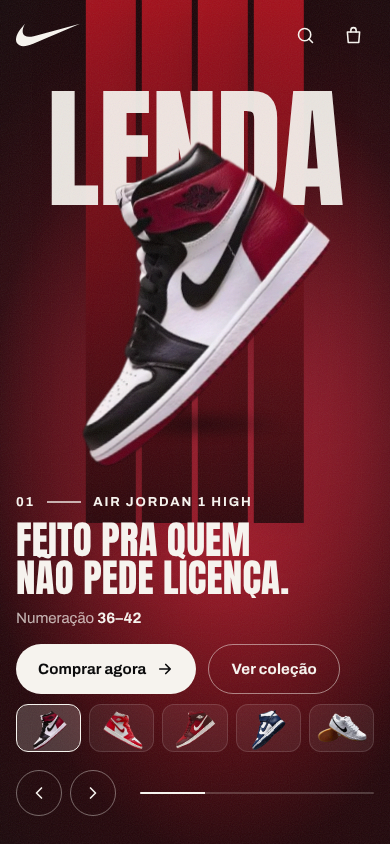
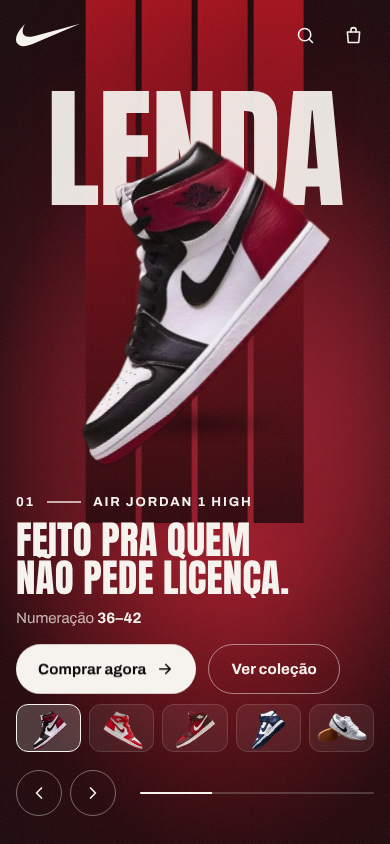
Corrige hero infinito e outros bugs do hero
- Altura do hero com teto (max-height): em painel que ajusta a altura ao
  conteúdo, o 100vh crescia sem parar
- Rolagem: valores iniciais explícitos; centralização do .palco preservada
- Palavra animada pelo wrapper na rolagem (não briga com a troca de tênis)
- Botão elástico usa a propriedade scale (não sobrescreve o transform do GSAP)
- Trocas ignoradas antes da intro terminar
- Autoplay continua pausado com o mouse em cima do seletor/CTA
- Setas do teclado só com o hero na tela e fora de campos de texto
- Intro só aparece com JS ativo (sem tela preta se o script falhar)
- Seletor com aria-pressed; tênis inativos com aria-hidden
- Faixa do slogan sem buraco em telas largas

Claude-Session: https://claude.ai/code/session_01GdwccTvq4W6oFZJSkJ4R6v

diff --git a/Nike/hero/main.js b/Nike/hero/main.js
@@ -56,9 +56,9 @@
     shoes.appendChild(img);
 
     var b = document.createElement('button');
-    b.className = 'thumb'; b.setAttribute('role','tab');
+    b.className = 'thumb'; b.type = 'button';
     b.setAttribute('aria-label', t.modelo + ' — ' + t.palavra);
-    b.setAttribute('aria-selected', i === 0 ? 'true' : 'false');
+    b.setAttribute('aria-pressed', i === 0 ? 'true' : 'false');
     b.innerHTML = '<span class="n">' + pad(i+1) + '</span><img src="' + t.img + '" alt="" draggable="false">';
     b.addEventListener('click', function(){ ir(i); });
     seletor.appendChild(b);
@@ -95,7 +95,7 @@
   }
 
   /* ── Troca de tênis ──────────────────────────────── */
-  var atual = 0, tl, auto;
+  var atual = 0, tl, auto, pronto = false, emCima = 0;
   var POSE = { x:0, y:0, rotation:-14, scale:1, opacity:1, filter:'blur(0px)' };
 
   function textos(t, i){
@@ -105,10 +105,12 @@
     linhas[0].textContent = t.l1;
     linhas[1].textContent = t.l2;
     aviso.textContent = (i+1) + ' de ' + TENIS.length + ': ' + t.modelo;
-    thumbs.forEach(function(b, j){ b.setAttribute('aria-selected', j === i ? 'true' : 'false'); });
+    thumbs.forEach(function(b, j){ b.setAttribute('aria-pressed', j === i ? 'true' : 'false'); });
+    imgs.forEach(function(img, j){ img.setAttribute('aria-hidden', j === i ? 'false' : 'true'); });
   }
 
   function ir(n, dir){
+    if(!pronto) return;
     n = (n + TENIS.length) % TENIS.length;
     if(n === atual) return;
     dir = dir || (n > atual ? 1 : -1);
@@ -151,20 +153,22 @@
     if(reduzido) return;
     auto = gsap.fromTo(barra, { scaleX:0 }, { scaleX:1, duration:TEMPO, ease:'none',
       onComplete:function(){ ir(atual + 1, 1); } });
+    if(emCima || document.hidden) auto.pause();
   }
   hero.querySelector('.next').addEventListener('click', function(){ ir(atual + 1, 1); });
   hero.querySelector('.prev').addEventListener('click', function(){ ir(atual - 1, -1); });
   document.addEventListener('keydown', function(e){
+    if(/input|textarea|select/i.test(e.target.tagName) || hero.getBoundingClientRect().bottom < 0) return;
     if(e.key === 'ArrowRight') ir(atual + 1, 1);
     if(e.key === 'ArrowLeft') ir(atual - 1, -1);
   });
   document.addEventListener('visibilitychange', function(){
     if(!auto) return;
-    document.hidden ? auto.pause() : auto.resume();
+    (document.hidden || emCima) ? auto.pause() : auto.resume();
   });
   [seletor, hero.querySelector('.ctas')].forEach(function(el){
-    el.addEventListener('mouseenter', function(){ auto && auto.pause(); });
-    el.addEventListener('mouseleave', function(){ auto && auto.resume(); });
+    el.addEventListener('mouseenter', function(){ emCima++; auto && auto.pause(); });
+    el.addEventListener('mouseleave', function(){ emCima = Math.max(0, emCima - 1); if(auto && !document.hidden) auto.resume(); });
   });
 
   /* swipe no celular */
@@ -224,7 +228,7 @@
       var forca = (alvoE - escala) * .22;
       vel = (vel + forca) * .72;
       escala += vel;
-      btn.style.transform = 'scale(' + escala + ')';
+      btn.style.scale = escala;
     });
   }
 
@@ -236,6 +240,7 @@
   if(reduzido){
     document.querySelector('.intro').remove();
     gsap.set(imgs[0], POSE);
+    pronto = true;
     word.textContent = t0.palavra;
     return;
   }
@@ -275,6 +280,7 @@
     .call(function(){
       document.body.classList.remove('intro-on');
       document.querySelector('.intro').remove();
+      pronto = true;
       reiniciarAuto();
     });
 
@@ -282,8 +288,9 @@
   var saida = gsap.timeline({
     scrollTrigger:{ trigger:hero, start:'top top', end:'bottom top', scrub:.6 }
   });
-  saida.to('.palco', { yPercent:18, scale:1.18, ease:'none' }, 0)
-       .to('.word', { yPercent:-35, opacity:.15, ease:'none' }, 0)
-       .to('.faixas', { yPercent:-20, ease:'none' }, 0)
-       .to(['.info', '.seletor', '.rodape-hero'], { opacity:0, y:-40, ease:'none' }, 0);
+  // .palco é centralizado com translate -50% -50%, que o GSAP converte em xPercent/yPercent
+  saida.fromTo('.palco', { xPercent:-50, yPercent:-50, scale:1 }, { xPercent:-50, yPercent:-32, scale:1.18, ease:'none' }, 0)
+       .fromTo('.word-wrap', { yPercent:0, opacity:1 }, { yPercent:-35, opacity:.15, ease:'none' }, 0)
+       .fromTo('.faixas', { xPercent:-50, yPercent:0 }, { xPercent:-50, yPercent:-20, ease:'none' }, 0)
+       .fromTo(['.info', '.seletor', '.rodape-hero'], { y:0, autoAlpha:1 }, { y:-40, autoAlpha:0, ease:'none', immediateRender:false }, 0);
 })();

diff --git a/Nike/hero/style.css b/Nike/hero/style.css
@@ -17,6 +17,7 @@ body{
   -webkit-font-smoothing:antialiased;overflow-x:hidden;
 }
 body.intro-on{overflow:hidden}
+body.intro-on .intro{display:flex}
 a{color:inherit;text-decoration:none}
 button{font:inherit;color:inherit;background:none;border:0;cursor:pointer}
 svg{display:block}
@@ -26,7 +27,7 @@ svg{display:block}
 /* ── Intro ─────────────────────────────────────────── */
 .intro{
   position:fixed;inset:0;z-index:100;background:var(--ink);
-  display:flex;flex-direction:column;align-items:center;justify-content:center;gap:18px;
+  display:none;flex-direction:column;align-items:center;justify-content:center;gap:18px;
 }
 .intro-swoosh{width:min(220px,46vw);overflow:visible}
 .intro-swoosh path{fill:transparent;stroke:var(--branco);stroke-width:.35;stroke-linejoin:round}
@@ -63,7 +64,7 @@ svg{display:block}
 
 /* ── Hero ──────────────────────────────────────────── */
 .hero{
-  position:relative;height:100vh;height:100svh;min-height:640px;overflow:hidden;isolation:isolate;
+  position:relative;height:100vh;height:100svh;min-height:640px;max-height:960px;overflow:hidden;isolation:isolate;
   background:
     radial-gradient(120% 90% at 58% 55%, var(--accent) 0%, var(--deep) 52%, var(--ink) 100%);
 }
@@ -155,7 +156,7 @@ svg{display:block}
 .thumb .n{position:absolute;left:8px;top:6px;font-size:10px;font-weight:700;opacity:.6}
 .thumb:hover{background:rgba(246,243,238,.14)}
 .thumb:hover img{transform:rotate(-14deg) scale(1.08)}
-.thumb[aria-selected="true"]{background:rgba(246,243,238,.2);border-color:var(--branco)}
+.thumb[aria-pressed="true"]{background:rgba(246,243,238,.2);border-color:var(--branco)}
 
 /* rodapé do hero */
 .rodape-hero{

diff --git a/Nike/hero/index.html b/Nike/hero/index.html
@@ -46,7 +46,7 @@
   </header>
 
   <main>
-    <section class="hero" aria-roledescription="carrossel" aria-label="Tênis em destaque">
+    <section class="hero" aria-label="Tênis em destaque">
 
       <!-- 12 · Luz que segue o mouse (NãoCodei) -->
       <div class="luz" aria-hidden="true"></div>
@@ -85,7 +85,7 @@
         </div>
       </div>
 
-      <div class="seletor" role="tablist" aria-label="Escolha o tênis"></div>
+      <div class="seletor" role="group" aria-label="Escolha o tênis"></div>
 
       <div class="rodape-hero">
         <div class="setas">
@@ -102,7 +102,7 @@
     <section class="faixa-slogan" aria-label="Slogan">
       <div class="marquee" aria-hidden="true">
         <div class="marquee-trilho">
-          <span>Just do it.</span><span>Just do it.</span><span>Just do it.</span><span>Just do it.</span><span>Just do it.</span><span>Just do it.</span>
+          <span>Just do it.</span><span>Just do it.</span><span>Just do it.</span><span>Just do it.</span><span>Just do it.</span><span>Just do it.</span><span>Just do it.</span><span>Just do it.</span><span>Just do it.</span><span>Just do it.</span><span>Just do it.</span><span>Just do it.</span>
         </div>
       </div>
       <p class="sr-only">Just do it.</p>
